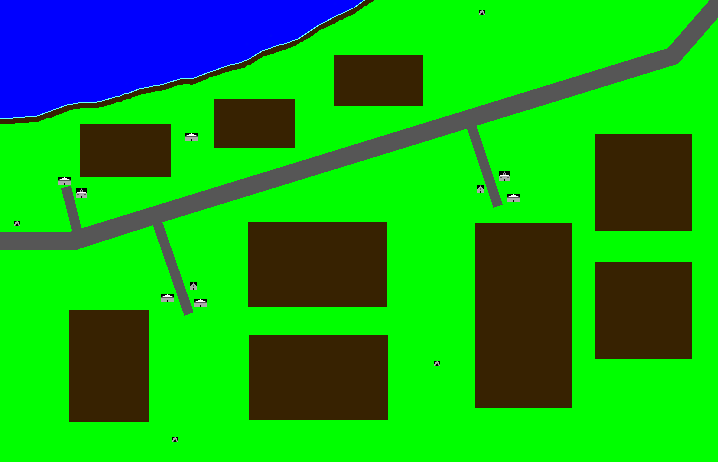
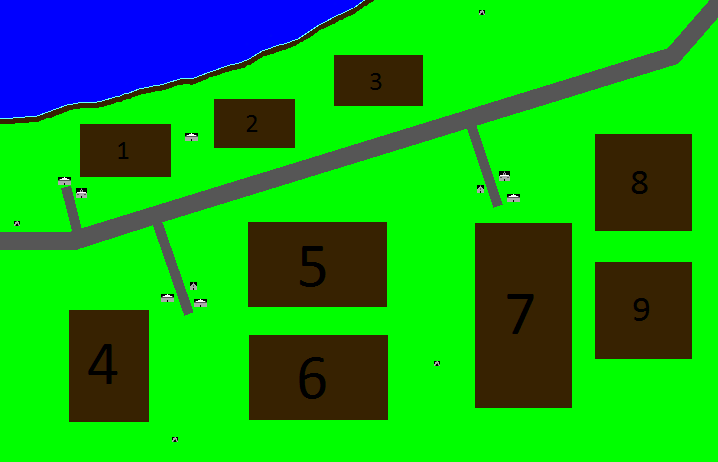
Map Placement (buildings)
Placed Orchard Valley and San Juan, minor edits to Edge of the Woods
(both), and labeled fields in Orchard Valley Placement Guide

diff --git a/src/ca/javajesus/level/SanJuan.java b/src/ca/javajesus/level/SanJuan.java
@@ -1,0 +1,162 @@
+package ca.javajesus.level;
+
+import java.awt.Point;
+
+import ca.javajesus.game.entities.structures.ApartmentHighRise;
+import ca.javajesus.game.entities.structures.CatholicChapel;
+import ca.javajesus.game.entities.structures.CatholicChurch;
+import ca.javajesus.game.entities.structures.GenericHospital;
+import ca.javajesus.game.entities.structures.Hotel;
+import ca.javajesus.game.entities.structures.JungleHQ;
+import ca.javajesus.game.entities.structures.NiceHouse;
+import ca.javajesus.game.entities.structures.NiceHouse2;
+import ca.javajesus.game.entities.structures.Police;
+import ca.javajesus.game.entities.structures.PoorHouse;
+import ca.javajesus.game.entities.structures.Projects;
+import ca.javajesus.game.entities.structures.QuackerHQ;
+import ca.javajesus.game.entities.structures.RancheroHouse;
+import ca.javajesus.game.entities.structures.RussianOrthodoxChurch;
+import ca.javajesus.game.entities.structures.SanJuanCityHall;
+import ca.javajesus.game.entities.structures.TheHub;
+import ca.javajesus.game.entities.structures.Warehouse;
+
+public class SanJuan extends Level
+{
+
+    public SanJuan()
+    {
+        super("/Levels/Cities/San_Juan.png", true);
+        this.spawnPoint = new Point(1680, 2648);
+        startingSpawnPoint = new Point(1680, 2648);
+
+    }
+
+    protected void initNPCPlacement() {
+        
+    }
+
+     
+    protected void initSpawnerPlacement() {
+         
+        
+    }
+
+     
+    protected void initChestPlacement() {
+         
+        
+    }
+
+     
+    protected void otherEntityPlacement() {
+        
+        //housing
+        this.addEntity(new ApartmentHighRise(this, 1976, 1624));
+        this.addEntity(new ApartmentHighRise(this, 2216, 2080));
+        this.addEntity(new ApartmentHighRise(this, 2360, 2080));
+        this.addEntity(new Hotel(this, 2096, 1768));
+        this.addEntity(new NiceHouse(this, 1104, 2816));
+        this.addEntity(new NiceHouse(this, 480, 2296));
+        this.addEntity(new NiceHouse(this, 504, 2400));
+        this.addEntity(new NiceHouse(this, 536, 2520));
+        this.addEntity(new NiceHouse(this, 552, 2632));
+        this.addEntity(new NiceHouse(this, 616, 2832));
+        this.addEntity(new NiceHouse(this, 848, 2456));
+        this.addEntity(new NiceHouse(this, 872, 2816));
+        this.addEntity(new NiceHouse(this, 1056, 2496));
+        this.addEntity(new NiceHouse(this, 1104, 2816));
+        this.addEntity(new NiceHouse(this, 1248, 2712));
+        this.addEntity(new NiceHouse(this, 1272, 2456));
+        this.addEntity(new NiceHouse(this, 1464, 2560));
+        this.addEntity(new NiceHouse(this, 1536, 2816));
+        this.addEntity(new NiceHouse(this, 1584, 2552));
+        this.addEntity(new NiceHouse(this, 1752, 2584));
+        this.addEntity(new NiceHouse(this, 2024, 2728));
+        this.addEntity(new NiceHouse(this, 2096, 2816));
+        this.addEntity(new NiceHouse(this, 2224, 2696));
+        this.addEntity(new NiceHouse(this, 2264, 2592));
+        this.addEntity(new NiceHouse(this, 2304, 2464));
+        this.addEntity(new NiceHouse2(this, 640, 2144));
+        this.addEntity(new NiceHouse2(this, 640, 2256));
+        this.addEntity(new NiceHouse2(this, 640, 2368));
+        this.addEntity(new NiceHouse2(this, 640, 2480));
+        this.addEntity(new NiceHouse2(this, 640, 2576));
+        this.addEntity(new NiceHouse2(this, 640, 2688));
+        this.addEntity(new NiceHouse2(this, 848, 2736));
+        this.addEntity(new NiceHouse2(this, 952, 2496));
+        this.addEntity(new NiceHouse2(this, 1000, 2816));
+        this.addEntity(new NiceHouse2(this, 1168, 2496));
+        this.addEntity(new NiceHouse2(this, 1216, 2816));
+        this.addEntity(new NiceHouse2(this, 1448, 2816));
+        this.addEntity(new NiceHouse2(this, 1456, 2680));
+        this.addEntity(new NiceHouse2(this, 1472, 2456));
+        this.addEntity(new NiceHouse2(this, 1608, 2448));
+        this.addEntity(new NiceHouse2(this, 1624, 2816));
+        this.addEntity(new NiceHouse2(this, 1760, 2448));
+        this.addEntity(new NiceHouse2(this, 1768, 2816));
+        this.addEntity(new NiceHouse2(this, 1824, 2680));
+        this.addEntity(new NiceHouse2(this, 1856, 2568));
+        this.addEntity(new NiceHouse2(this, 1888, 2464));
+        this.addEntity(new NiceHouse2(this, 2008, 2816));
+        this.addEntity(new NiceHouse2(this, 2048, 2632));
+        this.addEntity(new NiceHouse2(this, 2080, 2536));
+        this.addEntity(new NiceHouse2(this, 2096, 2456));
+        this.addEntity(new NiceHouse2(this, 2192, 2816));
+        this.addEntity(new NiceHouse2(this, 2440, 2816));
+        this.addEntity(new NiceHouse2(this, 2528, 2816));
+        this.addEntity(new PoorHouse(this, 624, 1176));
+        this.addEntity(new PoorHouse(this, 720, 1208));
+        this.addEntity(new PoorHouse(this, 744, 1704));
+        this.addEntity(new PoorHouse(this, 952, 1280));
+        this.addEntity(new PoorHouse(this, 1144, 1336));
+        this.addEntity(new PoorHouse(this, 1552, 1368));
+        this.addEntity(new PoorHouse(this, 1632, 1368));
+        this.addEntity(new PoorHouse(this, 2256, 1792));
+        this.addEntity(new PoorHouse(this, 2336, 1792));
+        this.addEntity(new PoorHouse(this, 2416, 1792));
+        this.addEntity(new PoorHouse(this, 2496, 1792));
+        this.addEntity(new PoorHouse(this, 2576, 1736));
+        this.addEntity(new PoorHouse(this, 2624, 1640));
+        this.addEntity(new Projects(this, 424, 1360));
+        this.addEntity(new Projects(this, 528, 1480));
+        this.addEntity(new Projects(this, 640, 1600));
+        this.addEntity(new Projects(this, 1160, 1768));
+        this.addEntity(new Projects(this, 1416, 1344));
+        this.addEntity(new Projects(this, 1688, 1344));
+        this.addEntity(new Projects(this, 1696, 1768));
+        this.addEntity(new Projects(this, 2016, 1344));
+        this.addEntity(new RancheroHouse(this, 3344, 3128));
+        
+        //religious buildings
+        this.addEntity(new CatholicChapel(this, 3512, 3136));
+        this.addEntity(new CatholicChurch(this, 1848, 1344));
+        this.addEntity(new RussianOrthodoxChurch(this, 824, 1768));
+
+        //hospitals
+        this.addEntity(new GenericHospital(this, 1544, 1768));
+        this.addEntity(new GenericHospital(this, 2624, 1336));
+
+        //the fuzz
+        this.addEntity(new Police(this, 1352, 1752));
+
+        //special buildings
+        this.addEntity(new QuackerHQ(this, 928, 2208));
+        this.addEntity(new SanJuanCityHall(this, 1344, 2184));
+        this.addEntity(new TheHub(this, 1144, 2136));
+        this.addEntity(new TheHub(this, 1800, 2136));
+        this.addEntity(new JungleHQ(this, 1544, 2208));
+        
+        //warehouses
+        this.addEntity(new Warehouse(this, 832, 1240));
+        this.addEntity(new Warehouse(this, 1016, 1296));
+        this.addEntity(new Warehouse(this, 1256, 1360));
+        this.addEntity(new Warehouse(this, 1416, 1048));
+        this.addEntity(new Warehouse(this, 1696, 1048));
+        this.addEntity(new Warehouse(this, 2024, 1048));
+        this.addEntity(new Warehouse(this, 2216, 1360));
+        this.addEntity(new Warehouse(this, 2256, 1048));
+        this.addEntity(new Warehouse(this, 2416, 1360));
+        this.addEntity(new Warehouse(this, 2560, 1048));
+    }
+
+}

diff --git a/src/ca/javajesus/level/OrchardValley.java b/src/ca/javajesus/level/OrchardValley.java
@@ -1,0 +1,57 @@
+package ca.javajesus.level;
+
+import java.awt.Point;
+
+import ca.javajesus.game.entities.structures.CatholicChapel;
+import ca.javajesus.game.entities.structures.CatholicChurch;
+import ca.javajesus.game.entities.structures.CaveEntrance;
+import ca.javajesus.game.entities.structures.RancheroHouse;
+
+public class OrchardValley extends Level
+{
+
+    public OrchardValley()
+    {
+        super("/Levels/Cities/Orchard_Valley.png", true);
+        this.spawnPoint = new Point(136, 1816);
+        startingSpawnPoint = new Point(136, 1816);
+
+    }
+
+    protected void initNPCPlacement() {
+        
+    }
+
+     
+    protected void initSpawnerPlacement() {
+         
+        
+    }
+
+     
+    protected void initChestPlacement() {
+         
+        
+    }
+
+     
+    protected void otherEntityPlacement() {
+        //catholic stuff
+        this.addEntity(new CatholicChapel(this, 1520, 2256));
+        this.addEntity(new CatholicChapel(this, 3816, 1480));
+        this.addEntity(new CatholicChurch(this, 608, 1504));
+        this.addEntity(new CatholicChurch(this, 3992, 1368));
+        //cave entrances
+        this.addEntity(new CaveEntrance(this, 112, 1768));
+        this.addEntity(new CaveEntrance(this, 1376, 3496));
+        this.addEntity(new CaveEntrance(this, 3472, 2888));
+        this.addEntity(new CaveEntrance(this, 3832, 80));
+        //casa de los rancheros
+        this.addEntity(new RancheroHouse(this, 464, 1416));
+        this.addEntity(new RancheroHouse(this, 1288, 2352));
+        this.addEntity(new RancheroHouse(this, 1480, 1064));
+        this.addEntity(new RancheroHouse(this, 1552, 2392));
+        this.addEntity(new RancheroHouse(this, 4056, 1552));
+    }
+
+}

diff --git a/src/ca/javajesus/level/EdgeOfTheWoodsTop.java b/src/ca/javajesus/level/EdgeOfTheWoodsTop.java
@@ -30,16 +30,20 @@ public class EdgeOfTheWoodsTop extends Level
     }
 
     protected void otherEntityPlacement() {
+        //caves
         this.addEntity(new CaveEntrance(this, 1856, 688));
         this.addEntity(new CaveEntrance(this, 2616, 1176));
+        this.addEntity(new CaveEntrance(this, 2448, 2440));
+        
+        //hotel
         this.addEntity(new Hotel(this, 1872, 1408));
+
+        //houses
         this.addEntity(new PoorHouse(this, 2040, 1536));
         this.addEntity(new PoorHouse(this, 2056, 1632));
         this.addEntity(new PoorHouse(this, 1920, 1568));
         this.addEntity(new PoorHouse(this, 1936, 1672));
         this.addEntity(new NiceHouse(this, 2048, 1416));
-        this.addEntity(new CaveEntrance(this, 2448, 2440));
-
     }
 
 }

diff --git a/src/ca/javajesus/level/EdgeOfTheWoods.java b/src/ca/javajesus/level/EdgeOfTheWoods.java
@@ -14,8 +14,8 @@ public class EdgeOfTheWoods extends Level{
 
 	public EdgeOfTheWoods() {
 		super("/Levels/Wilderness_Areas/Edge_of_the_Woods_Main.png", true);
-		this.spawnPoint = new Point(2224, 2816);
-		startingSpawnPoint = new Point(2224, 2816);
+		this.spawnPoint = new Point(2704, 552);
+		startingSpawnPoint = new Point(2704, 552);
 	}
 
 	protected void initNPCPlacement() {
